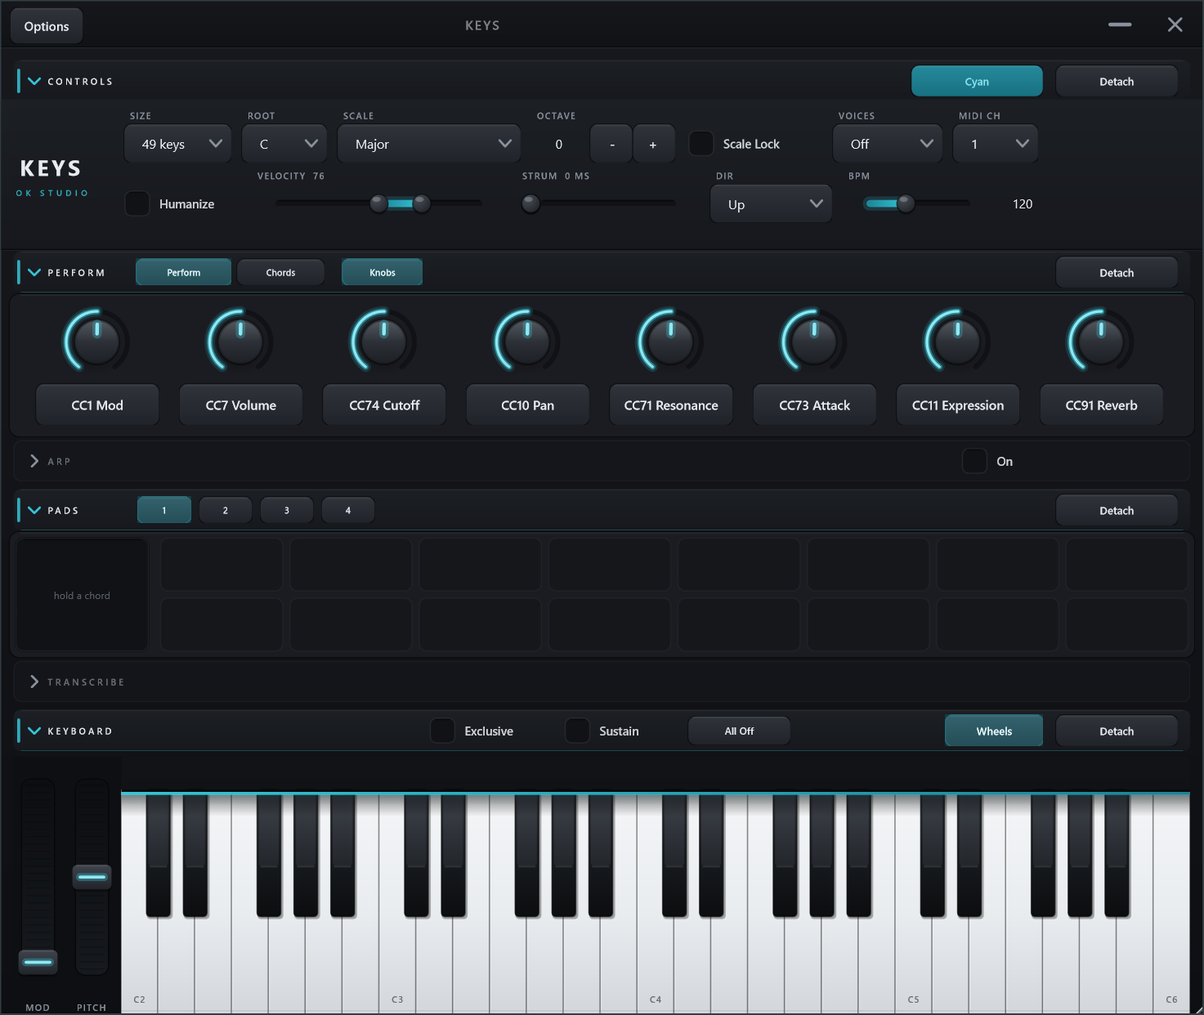
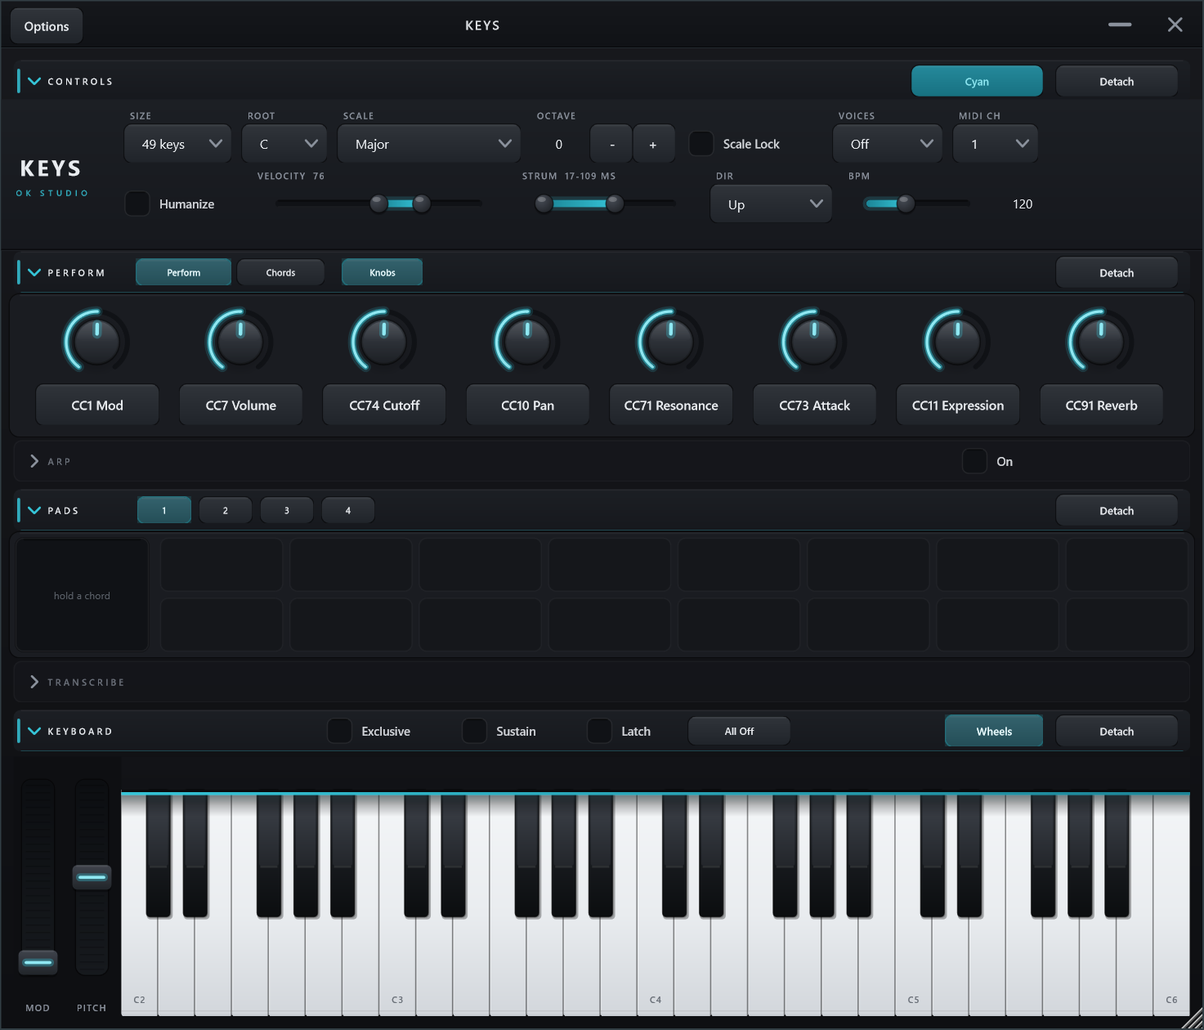
feat: sustain restrikes a ringing key, and Latch returns as its own toggle
Sustain had become a per-note switch: clicking a key it was already holding
released that key, so a note could never be played twice over a held chord.
It is a pedal again - a second click strikes the note again - and the toggle
behaviour it had borrowed is back as its own Latch button on the Keyboard bar.

Right-click's per-note latch keeps its left-click release, keyed on the latched
set rather than on Latch mode, so the accessibility contract never depended on
Sustain's old behaviour. The latch parameter has been registered since the first
release, so no saved session or automation lane moves.

diff --git a/src/ui/NoteSurface.cpp b/src/ui/NoteSurface.cpp
@@ -227,33 +227,42 @@ void NoteSurface::mouseDown(const juce::MouseEvent& e)
     if (latch)
     {
         if (latched.count(d))
+        {
             latched.erase(d);
+            sustained.erase(d); // a note the pedal also caught has to stop, not linger
+        }
         else
+        {
             latched.insert(d);
+        }
         dragDrawn = d;
         refresh();
         return;
     }
 
-    // A note already being held releases when you click it again, whether the pedal
-    // caught it (Sustain) or a right-click toggled it on. Both were one-way doors: the
-    // sustained note stayed until Sustain came off entirely, and the right-latched note
-    // needed a second right-click, which is an accelerator not everyone reaches for. So
-    // the plain left click is now the way out of both, and a chord with a wrong note in
-    // it can be taken apart a note at a time.
-    //
-    // Checked before `pressed` so the click reads as "stop that note" rather than a
-    // re-trigger, and the gesture is marked so the drag and mouse-up below cannot put it
-    // straight back (mouseUp's pedal-catch would otherwise re-sustain what we released).
-    if (sustained.count(d) || latched.count(d))
+    // A note held by a right-click releases when you left-click it again. Right-click is
+    // only ever an accelerator, so the way out of it has to be an ordinary click; a chord
+    // built that way can be taken apart a note at a time. Checked before `pressed` so the
+    // click reads as "stop that note", and the gesture is marked so the drag and mouse-up
+    // below cannot put it straight back (mouseUp's pedal-catch would otherwise re-sustain
+    // what we released).
+    if (latched.count(d))
     {
-        sustained.erase(d);
         latched.erase(d);
+        sustained.erase(d);
         releaseGesture = true;
         dragDrawn = -1;
         refresh();
         return;
     }
+
+    // Sustain is a pedal, not a per-note toggle: a key the pedal is already holding sounds
+    // *again* when you click it, the way a real keyboard does with the pedal down. It used
+    // to release instead, which is Latch's job and now Latch's alone (restored as its own
+    // toggle 2026-07-30, Owen's call). refresh() emits only the delta, so the note has to
+    // come off before the press goes back in or nothing would be sent at all.
+    if (sustained.erase(d) > 0)
+        refresh();
 
     pressed.insert(d);
     dragDrawn = d;
@@ -285,6 +294,10 @@ void NoteSurface::mouseDrag(const juce::MouseEvent& e)
         if (sustain)
             sustained.insert(dragDrawn);
         pressed.erase(dragDrawn);
+        // Gliding back onto a key the pedal is holding strikes it again, exactly as
+        // clicking it does. Same delta problem as mouseDown: off first, then on.
+        if (sustained.erase(d) > 0)
+            refresh();
         pressed.insert(d);
         dragDrawn = d;
         refresh();

diff --git a/src/PluginEditor.cpp b/src/PluginEditor.cpp
@@ -193,9 +193,15 @@ KeysEditor::KeysEditor(KeysProcessor& p)
     controlsHolder.addAndMakeVisible(scaleLockButton);
     controlsHolder.addAndMakeVisible(humanizeButton);
     addAndMakeVisible(sustainButton);
+    addAndMakeVisible(latchButton);
     addAndMakeVisible(chordExclusiveButton);
+    sustainButton.setTooltip("Pedal. Notes keep sounding after you let go, and clicking a key "
+                             "that is already ringing strikes it again. All Off stops them.");
+    latchButton.setTooltip("Click a key to hold it, click it again to release it. Use this to "
+                           "build a chord a note at a time, or to take one apart.");
     scaleLockAtt = std::make_unique<ButtonAtt>(processor.apvts, "scaleLock", scaleLockButton);
     sustainAtt = std::make_unique<ButtonAtt>(processor.apvts, "sustain", sustainButton);
+    latchAtt = std::make_unique<ButtonAtt>(processor.apvts, "latch", latchButton);
     humanizeAtt = std::make_unique<ButtonAtt>(processor.apvts, "humanize", humanizeButton);
     chordExclusiveAtt = std::make_unique<ButtonAtt>(processor.apvts, "chordExclusive", chordExclusiveButton);
 
@@ -1116,8 +1122,8 @@ void KeysEditor::timerCallback()
                           (int) apvts.getRawParameterValue("scale")->load());
     keyboard.setSustain(sus);
     // While a pad is linked for editing, clicks must toggle notes, so Latch behaviour
-    // is forced on regardless of the parameter.
-    keyboard.setLatch(editingPad >= 0);
+    // is forced on regardless of the button.
+    keyboard.setLatch(editingPad >= 0 || apvts.getRawParameterValue("latch")->load() > 0.5f);
     keyboard.setPolyphony((int) apvts.getRawParameterValue("polyphony")->load()); // 0 = unlimited
 
     // Lifting the sustain pedal releases any pad chords left ringing by it.
@@ -1379,6 +1385,8 @@ void KeysEditor::resized()
         // left it 20. The skin's button font scales with height, so those 4 px were also
         // shrinking the label: All Off was the odd one out on the bar for no reason.
         panicButton.setBounds(bar.removeFromRight(84).withSizeKeepingCentre(84, 24));
+        bar.removeFromRight(6);
+        latchButton.setBounds(bar.removeFromRight(78).withSizeKeepingCentre(76, 24));
         bar.removeFromRight(6);
         sustainButton.setBounds(bar.removeFromRight(96).withSizeKeepingCentre(94, 24));
         bar.removeFromRight(6);

diff --git a/src/PluginProcessor.cpp b/src/PluginProcessor.cpp
@@ -91,11 +91,14 @@ juce::AudioProcessorValueTreeState::ParameterLayout KeysProcessor::createLayout(
     // were three overlapping ways to set velocity; this is the one that earned nothing.
     layout.add(std::make_unique<AudioParameterChoice>(ParameterID { "curve", 1 }, "Velocity Curve",
                                                       juce::StringArray { "Soft", "Linear", "Hard" }, 1));
-    // Velocity and Latch, same story. The fixed Velocity slider only ever applied while
-    // Humanize was off, so it and the Humanize range were one control in two costumes;
-    // the range absorbed it (baseVelocity01). Latch-as-a-mode went once a left click
-    // released a held note, which left right-click-to-hold as the only path worth having.
+    // Velocity, same story. The fixed slider only ever applied while Humanize was off, so
+    // it and the Humanize range were one control in two costumes; the range absorbed it
+    // (baseVelocity01).
     layout.add(std::make_unique<AudioParameterInt>(ParameterID { "velocity", 1 }, "Velocity", 1, 127, 100));
+    // Latch is read again (2026-07-30). It was briefly a retained-but-dead parameter, on the
+    // reasoning that a left click on a held note releases it and so a whole mode earned
+    // nothing; that made Sustain a per-note toggle, which is not what a pedal does. Sustain
+    // restrikes now, Latch is the toggle, and each has a button on the Keyboard bar.
     layout.add(std::make_unique<AudioParameterBool>(ParameterID { "latch", 1 }, "Latch", false));
     // Timing Spread, retained but no longer read. It rode the same broken path Strum did
     // (see scheduleNoteOn), and even fixed it earned nothing: a random 0-30 ms nudge is

diff --git a/src/ui/NoteSurface.h b/src/ui/NoteSurface.h
@@ -23,12 +23,17 @@ namespace keys
 // while it rings.
 //
 // Mouse: left click plays, left drag glides (monophonic; with the pedal down the trail
-// keeps ringing). With Sustain on, clicking a key the pedal is already holding releases
-// it, so a chord built by mistake can be taken apart a note at a time instead of needing
-// Sustain switched off. Right-click toggles a per-note latch — an optional accelerator on top
-// of the on-screen Latch toggle, never the only path (accessibility contract). It feeds
-// the same `latched` set, so Latch-off and panic clear it; Octavium's right-latched
-// notes survived panic forever, which was a bug, not a behaviour to keep.
+// keeps ringing).
+//
+// Sustain and Latch are two different holds, and the difference is what a *second* click
+// on a ringing key does. Sustain is a pedal: the click strikes the note again, so playing
+// the same key four times over a held chord gives four attacks. Latch is a toggle: the
+// click releases that note, which is how a chord gets taken apart a note at a time.
+//
+// Right-click toggles a per-note latch — an optional accelerator on top of the on-screen
+// Latch toggle, never the only path (accessibility contract). It feeds the same `latched`
+// set, so a plain left click releases it, and Latch-off and panic clear it; Octavium's
+// right-latched notes survived panic forever, which was a bug, not a behaviour to keep.
 class NoteSurface : public juce::Component,
                     private juce::Timer
 {

diff --git a/src/PluginEditor.h b/src/PluginEditor.h
@@ -219,6 +219,10 @@ private:
 
     juce::ToggleButton scaleLockButton { "Scale Lock" };
     juce::ToggleButton sustainButton { "Sustain" };
+    // Latch is back as a toggle of its own (2026-07-30, Owen's call). It rides the Keyboard
+    // bar beside Sustain because the two are the same question — how does a note stop? —
+    // answered two ways: the pedal restrikes, Latch releases.
+    juce::ToggleButton latchButton { "Latch" };
     juce::ToggleButton humanizeButton { "Humanize" };
     juce::ToggleButton chordExclusiveButton { "Exclusive" };
     juce::TextButton panicButton { "All Off" };
@@ -287,7 +291,7 @@ private:
 
     std::unique_ptr<ComboAtt> sizeAtt, rootAtt, scaleAtt, channelAtt, chordStrumDirAtt, polyphonyAtt;
     std::unique_ptr<SliderAtt> octaveAtt, bpmAtt; // strum has two values; synced by hand
-    std::unique_ptr<ButtonAtt> scaleLockAtt, sustainAtt, humanizeAtt, chordExclusiveAtt;
+    std::unique_ptr<ButtonAtt> scaleLockAtt, sustainAtt, latchAtt, humanizeAtt, chordExclusiveAtt;
 
     okstudio::updater::Config updaterConfig;
     okstudio::updater::UpdateInfo pendingUpdate;

diff --git a/docs/CONTROLS.md b/docs/CONTROLS.md
@@ -15,9 +15,12 @@ twin, because binding a chord to one particular slot needs a target picker.
 | Right-click a key *(optional)* | Hold that one note — Octavium's per-note latch. **Left-click it again** to release it, or **All Off**. |
 | Click a **C** | Every C is labelled (C1, C2, …) to help you orient |
 
-Chords come from **Sustain** or **right-click** — a single mouse can't hold several
-keys at once, so those are how you stack notes. Either way, **clicking a held key
-releases it**, so a chord with a wrong note in it can be taken apart a note at a time.
+Chords come from **Latch**, **Sustain** or **right-click** — a single mouse can't hold
+several keys at once, so those are how you stack notes. The difference is what a second
+click on a ringing key does: under **Sustain** it strikes the note again (it is a pedal,
+so the same key can be played over and over while the chord under it holds), under
+**Latch** it releases that note, so a chord with a wrong note in it can be taken apart
+a note at a time.
 
 ### Watching a physical keyboard
 
@@ -55,7 +58,7 @@ the window reads at a glance, before you have read a single caption.
 | **Arp** | below the centre | The arpeggiator. Its **On** toggle and **Detach** ride on the bar, so the arp can be switched on, off and detached with the panel folded shut — folding it puts the editor away, never the arpeggiator. It starts folded, because open it is the tallest thing here. |
 | **Pads** | below the arp | The chord-pad strip, on screen under either centre view — so a chord stays reachable while you edit the generator or the arp. Its page buttons ride on the bar. |
 | **Transcribe** | below the pads | Audio to MIDI: the input picker, the waveform, the piano roll and the MIDI drag handle. It starts folded, like the arp, because open it is tall. Folding it also closes the audio input, so Keys is not holding your microphone while it is shut. |
-| **Keyboard** | above the keys | The keybed. **Wheels** folds the mod and pitch wheels; Exclusive, Sustain and All Off stay put. |
+| **Keyboard** | above the keys | The keybed. **Wheels** folds the mod and pitch wheels; Exclusive, Sustain, Latch and All Off stay put. |
 
 ### Detaching a section
 
@@ -155,19 +158,24 @@ takes them with it — they are what you reach for while playing:
 | Control | Type | What it does |
 |---------|------|--------------|
 | **Exclusive** | toggle | Playing a chord pad chokes the previously-playing pad, so only one pad chord sounds at a time. |
-| **Sustain** | toggle | On: notes keep sounding after you release the mouse, like a sustain pedal. With the pedal down a glide leaves a trail. Click a held key to release just that note; turn Sustain off (or click All Off) to release everything. |
+| **Sustain** | toggle | On: notes keep sounding after you release the mouse, like a sustain pedal. With the pedal down a glide leaves a trail, and clicking a key that is already ringing **strikes it again** — the pedal never turns a key into a switch. Turn Sustain off (or click All Off) to release everything. |
+| **Latch** | toggle | On: clicking a key holds it, clicking it again releases it. This is the one to use to build a chord note by note, or to take one apart. Turning Latch off releases everything it was holding. |
 | **All Off** | button | Panic. Stops every note on every channel, and drops anything a strum still had queued. |
 
 ## Holding notes
 
-A single mouse can't hold several keys, so there are two ways to stack them:
+A single mouse can't hold several keys, so there are three ways to stack them:
 
-- **Sustain** catches every note you play while it is on.
-- **Right-click** a key to hold that one note (an optional accelerator).
+- **Latch** holds every key you click until you click it again.
+- **Sustain** catches every note you play while it is on, and re-plays any key you click
+  a second time.
+- **Right-click** a key to hold that one note (an optional accelerator). **Left-clicking
+  it releases it**, so the right button is never the only way out.
 
-Either way, **left-clicking a held key releases it**. That is why there is no Latch
-toggle any more: once one click both holds and releases, a whole mode for holding notes
-earned nothing.
+Sustain and Latch are two answers to the same question — how does a note stop? Sustain is
+a pedal: it defers the release, and a repeated key is a repeated strike, so you can play a
+riff over a chord that is still ringing. Latch is a switch: the second click is the
+release. They can both be on, and Latch wins on the keys it holds.
 
 Everything here persists with the DAW session.
 
@@ -176,7 +184,7 @@ Everything here persists with the DAW session.
 Two rows of eight pads (sixteen a page) and a live chord card sit between the controls
 and the playing area. They let you keep a palette of chords a single click away.
 
-1. **Build a chord.** Turn **Sustain** on (or right-click) and click the notes you want.
+1. **Build a chord.** Turn **Latch** on (or **Sustain**, or right-click) and click the notes you want.
    The card names the chord it hears (for example `Cm7`).
 2. **Hear it as a chord.** Press and hold the card. Holding a chord sounds the keys you
    are holding; the card fires them as one chord, so you hear it strummed, humanized and

diff --git a/docs/ARCHITECTURE.md b/docs/ARCHITECTURE.md
@@ -125,12 +125,22 @@ Chords and holds make "which notes should sound" non-trivial. `NoteSurface` keep
 three sets of **drawn** ids (a MIDI note for the piano, a cell index for the grids):
 
 - `pressed` — under the active mouse gesture (a click, or the current key in a glide),
-- `latched` — toggled on by right-click (or by the forced latch during pad editing),
+- `latched` — toggled on by the Latch button or right-click (or by the forced latch
+  during pad editing),
 - `sustained` — captured by the Sustain pedal when the mouse released.
 
-A left click on a key already in `latched` or `sustained` **releases** it. That is what
-retired the Latch toggle: once a plain click both holds and releases, a whole mode for it
-earned nothing. The `latch` member survives for pad editing, which still forces it on.
+**Sustain and Latch differ only in what a second click does**, and that difference is the
+whole reason both exist. Latch is a switch: a click on a key already in `latched`
+**releases** it. Sustain is a pedal: a click on a key already in `sustained` **strikes it
+again**, which `mouseDown` gets by dropping it from `sustained`, calling `refresh()` to
+emit the note-off, and only then pressing it (`refresh()` emits deltas, so without the
+first call nothing would go out at all). Gliding back over a sustained key does the same.
+
+The Latch button was briefly retired, on the reasoning that a plain click already both
+held and released — which is true, but it made the pedal behave like a switch, so a
+repeated note under a held chord was impossible. Restored 2026-07-30 as its own toggle on
+the Keyboard bar, reading the `latch` parameter that had survived for pad editing (which
+still forces it on regardless of the button).
 
 `refresh()` computes `want = pressed ∪ latched ∪ sustained`, diffs it against
 `sounding` (drawn id → the output MIDI note currently on), and emits exactly the
@@ -141,8 +151,9 @@ first steals the oldest voices (FIFO `voiceOrder`) until `want` fits the cap. Ch
 MIDI channel panics, so a note can't stick on the channel it was played on.
 
 **Right-click latch** is an optional accelerator on every note surface, and the
-accessibility contract is still satisfied because a left click releases what it holds:
-right-click is never the only way out. It toggles the drawn id in the same `latched` set,
+accessibility contract is still satisfied because a left click releases what it holds
+(that release path is keyed on `latched`, not on Latch mode, so it works with every
+button off): right-click is never the only way out. It toggles the drawn id in the same `latched` set,
 so panic clears it. Octavium kept right-click latches in a private set no panic ever
 cleared; that was its worst stuck-note bug, not a behaviour to keep.
 
@@ -391,7 +402,7 @@ shrinking them. Auditioning a chord in the grid reuses
 ## Parameters and state
 
 All settings are `AudioProcessorValueTreeState` parameters (`size`, `root`, `scale`,
-`scaleLock`, `octave`, `channel`, `polyphony`, `sustain`,
+`scaleLock`, `octave`, `channel`, `polyphony`, `sustain`, `latch`,
 the Humanize set `humanize` / `humanizeVelMin` / `humanizeVelMax`, the
 chord-pad settings `chordExclusive` / `chordStrum` / `chordStrumMax` / `chordStrumDir` /
 `padPage`, the generator's `gen*` set — `genRoot`, `genMode`, `genOctave`, the
@@ -409,10 +420,11 @@ standalone could ever reach and nobody anywhere could change.
 
 A growing set is **registered but no longer read**, kept only so a session (and any host
 automation) saved with them loads without error: `surface`, `uiLayout`, `padChannel`,
-`xyCCX` / `xyCCY` from the old five-tab arrangement, and `velocity`, `curve`, `latch`,
+`xyCCX` / `xyCCY` from the old five-tab arrangement, and `velocity`, `curve`,
 `humanizeTime` from the controls this branch retired. Adding to that list is the standing
 convention here — removing a parameter outright would shift automation in projects that
-already exist.
+already exist. `latch` came back off it in 2026-07-30, which is the other reason to keep
+dead parameters registered: a retired control is sometimes only resting.
 
 The folding layout (which sections are open, which centre view, where each detached
 window was left) and the instance's accent colour are **not** parameters: they change no

diff --git a/README.md b/README.md
@@ -49,7 +49,8 @@ the window reads before you have read a caption.
 |---------|--------|
 | **Click** a key | Play that note |
 | **Click and drag** | Glide across keys (monophonic) |
-| **Sustain on**, click several keys | Notes keep sounding after release, like a pedal; with the pedal down a glide leaves a trail. Click a held key to release just that one, or **All Off** for everything |
+| **Sustain on**, click several keys | Notes keep sounding after release, like a pedal; with the pedal down a glide leaves a trail, and clicking a ringing key **plays it again**. **All Off** stops everything |
+| **Latch on**, click several keys | Each click holds that key, and clicking it again releases it — the way to build a chord note by note, or take one apart |
 | **Right-click** a key (optional) | Hold that one note — the Octavium accelerator. **Left-click it again** to release it |
 | **Knob row** | Eight rotary CC knobs above the keyboard, each with a one-click reassign button (see Controls below) |
 | **Chord pads** | Build a chord, drag the live card onto a pad to capture it, then press the pad beat-pad style to play it (Sustain holds it). Drag a pad back onto the card to bring its notes up for editing |
@@ -73,7 +74,8 @@ the generator's cards and the arp slots; only **Send to arp slot** lives nowhere
 | **MIDI Ch** | Output channel, 1–16 |
 | **Voices** | Polyphony limit: Off (unlimited) or 1–8 notes, stealing the oldest |
 | **Mod / Pitch wheels** | Left of the keyboard: Mod sends CC1 and holds; Pitch bends and glides back to centre. Both move by relative drag, never jumping to a click |
-| **Sustain** | Hold notes after release (pedal) |
+| **Sustain** | Hold notes after release (pedal). A repeated key is a repeated strike, so you can play over a chord that is still ringing |
+| **Latch** | Click to hold a key, click again to release it. Sustain's twin, and the difference between them is exactly that second click |
 | **Humanize** | Draw each note's velocity at random from the Velocity range, so repeats and chords don't sound machine-perfect |
 | **Knobs** | Eight rotary CC knobs; the label under each opens a one-click reassign menu |
 | **Chord pads** | Their own section, on screen whatever the centre view is showing. Capture chords to sixteen pads a page (two rows) and press beat-pad style to play (Sustain holds); **Exclusive** chokes the last chord, **Strum** rakes a chord's notes Up / Down / Random over a time drawn from its range. Four numbered buttons on the Pads bar pick the page |

diff --git a/CHANGELOG.md b/CHANGELOG.md
@@ -5,6 +5,37 @@ All notable changes to Keys are documented here. Format follows
 
 ## [Unreleased]
 
+### Changed: Sustain is a pedal again, and Latch is back as its own toggle
+
+Owen's call. Sustain had quietly become a per-note switch: with it on, clicking a key that
+was already ringing *released* that key. That was deliberate once — it gave right-click's
+per-note latch a left-click way out — but it cost the thing a pedal is for. You could not
+play a note twice. A repeated melody note over a chord you were holding came out as one
+note and then a silence, because the second click turned it off.
+
+So the two behaviours are two controls again, and the whole difference between them is
+what a second click does:
+
+- **Sustain** (unchanged in every other way) is the pedal. Notes ring on after you let go,
+  a glide still leaves a trail, and **clicking a ringing key strikes it again**. Playing
+  the same key four times over a held chord now gives four attacks.
+- **Latch** is a new toggle on the Keyboard bar, next to Sustain. Click a key to hold it,
+  click it again to release it. This is the one for building a chord a note at a time, or
+  taking one apart, and it is what Sustain had been doing by accident.
+
+Both can be on at once; Latch wins on the keys it holds. Right-click's per-note latch is
+untouched and still has its left-click twin: clicking a note held that way releases it,
+with both buttons off, so the accessibility contract never depended on Sustain's old
+behaviour. **All Off** and turning either toggle off still clear everything.
+
+Under the hood, a restrike is a note-off followed by a note-on, not a second note-on, so it
+goes through the same refcount the chord pads, the live card and the arp share: a key
+struck again while another source is holding that pitch leaves the other source's note
+alone rather than cutting it short.
+The `latch` parameter this reads has been in the state since the first release (it stayed
+registered while the toggle was gone, and pad editing kept forcing it on), so no saved
+session or automation lane moves.
+
 ### Changed: the section bars read as headers, and the whole bar folds it again
 
 Three of Owen's asks, all about the same strip.

diff --git a/CLAUDE.md b/CLAUDE.md
@@ -154,10 +154,14 @@ Read `docs/ARCHITECTURE.md` first. Load-bearing ideas:
   passes without the bus, so only a real Live load test catches it.
 - **Mouse-only UI**: single left-click or drag; targets ≥ ~34 px; no
   keyboard/double-click/modifiers. Sustain is an on-screen toggle by design, never a
-  modifier key (the separate Latch toggle is gone: a left click on a held note releases
-  it, which left nothing for the mode to do). Right-click is normally only an optional
-  accelerator with a left-click equivalent (per-note latch on the note surfaces, at
-  Owen's request).
+  modifier key, and **Latch is a second one beside it** (restored 2026-07-30 at Owen's
+  request, after a spell where a left click on any held note released it and the mode
+  looked redundant — it wasn't: that made the pedal a per-note switch, so a repeated note
+  over a ringing chord was unreachable). Under Sustain a second click on a ringing key
+  **strikes it again**; under Latch it **releases** it. Right-click is normally only an
+  optional accelerator with a left-click equivalent (per-note latch on the note surfaces,
+  at Owen's request; its left-click release keys on the `latched` set, not on Latch mode,
+  so it works with both buttons off).
   One owner-directed exception (2026-07-22): chord-pad card menus are right-click —
   in the generator (Lock / New chord / Next, restoring Octavium's card menu; the
   page-wide left-click Fill/Regen/Clear stay as the bulk path) and on the main-page
